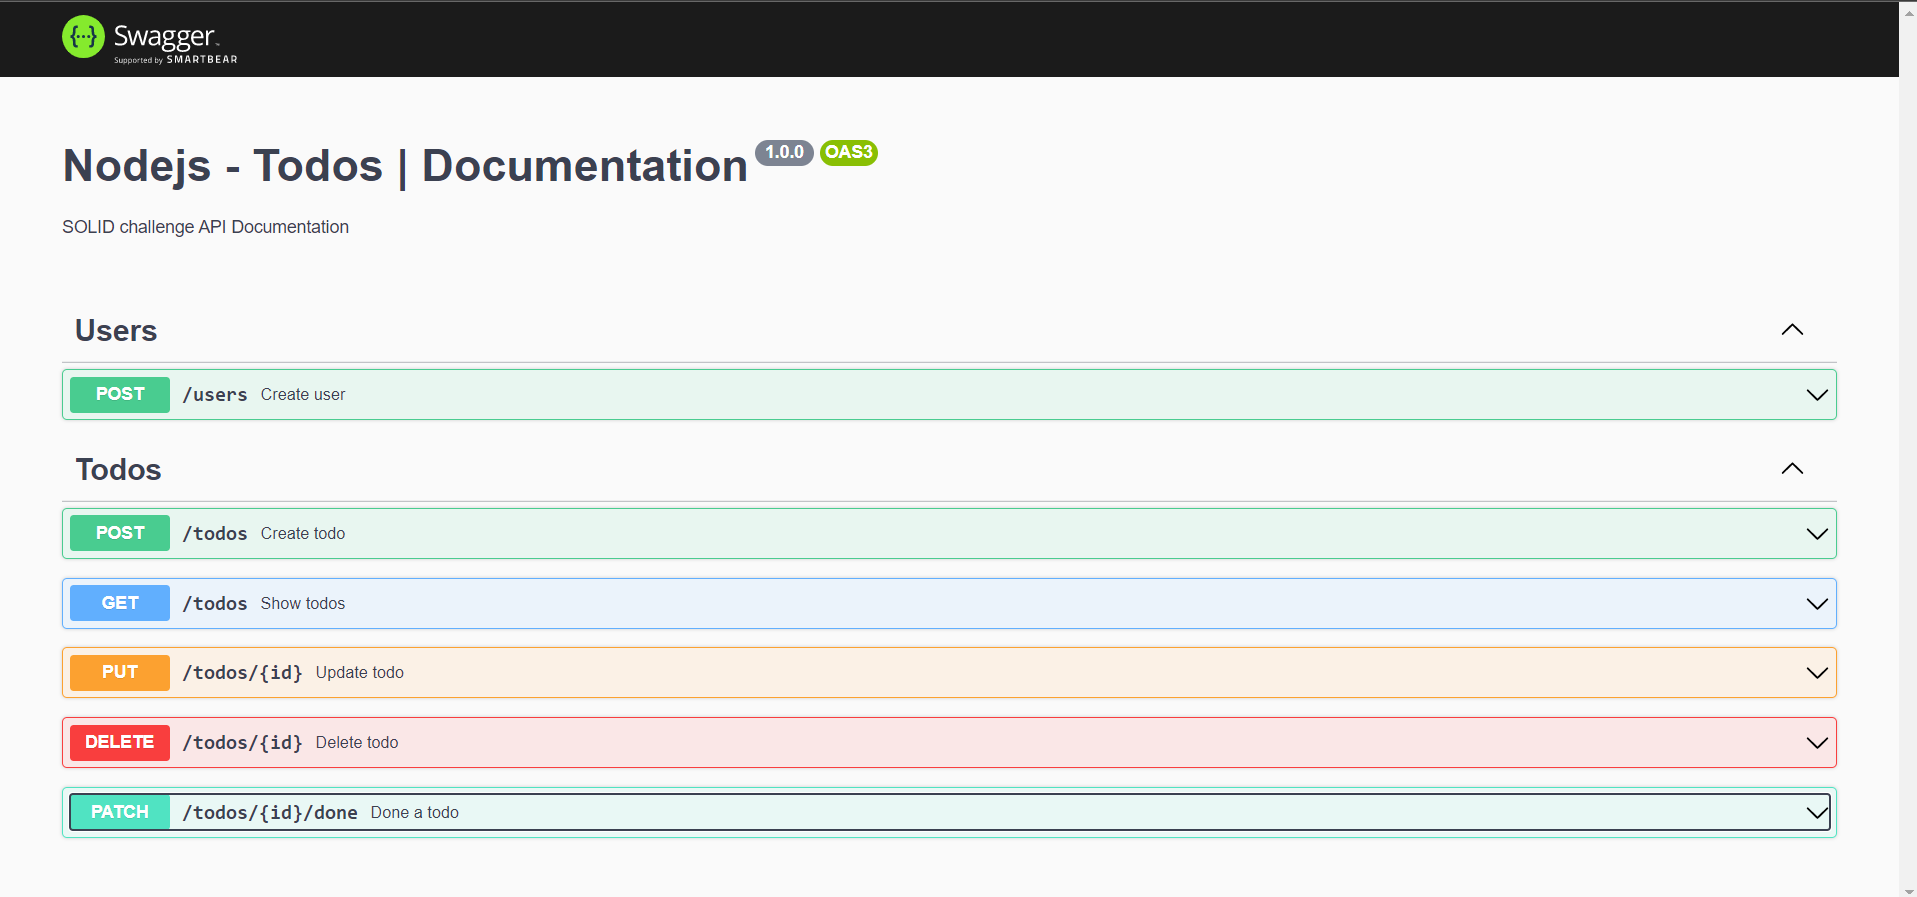
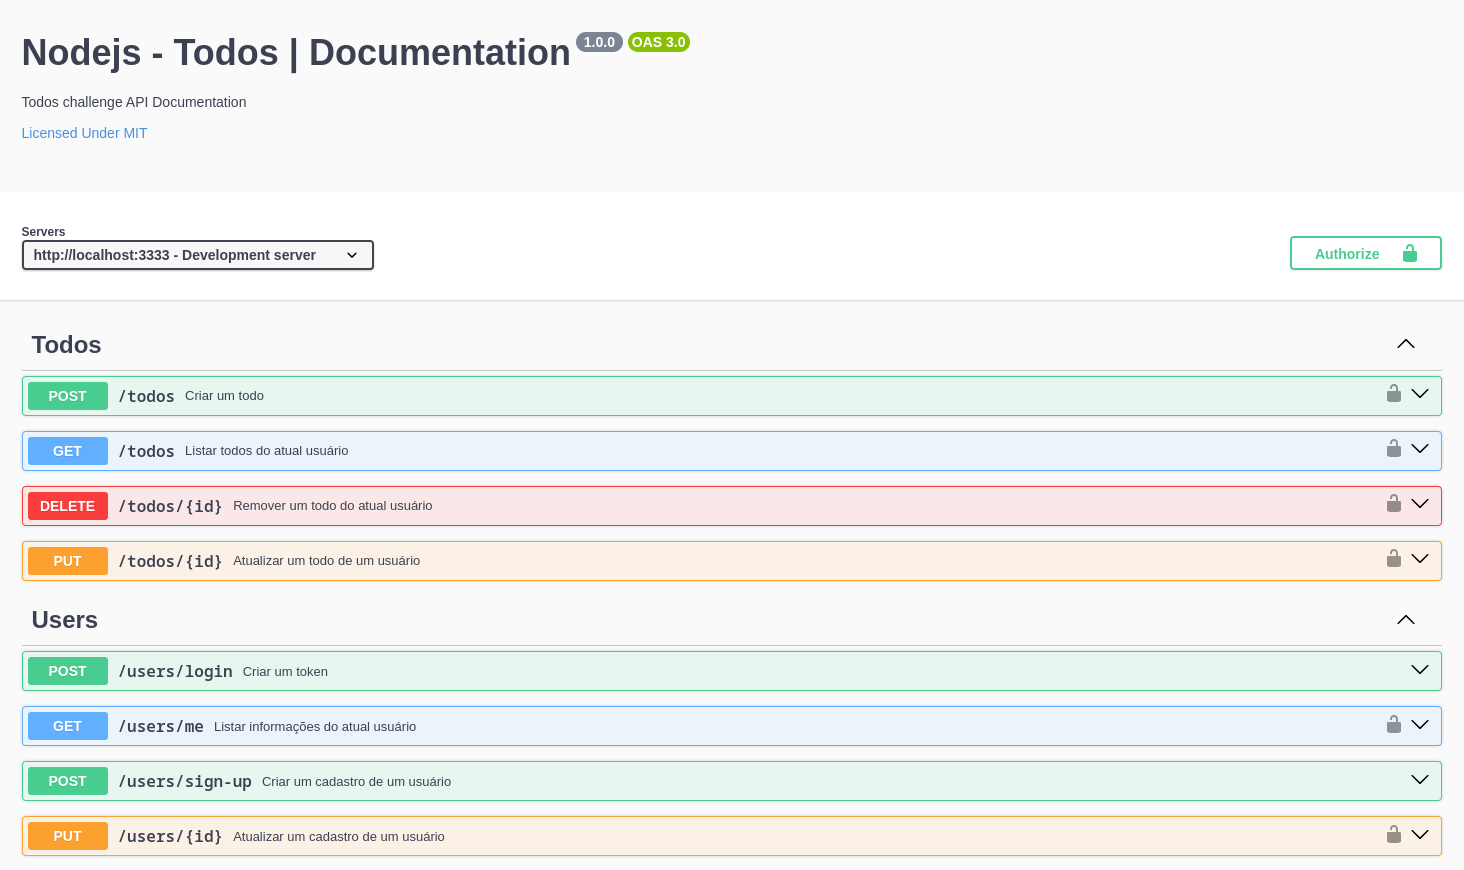
chore: Readme

diff --git a/README.md b/README.md
@@ -1,57 +1,94 @@
- <img src="https://img.shields.io/github/license/Ricnaga/nodejs-todo?label=License&style=for-the-badge"/>
+<div align="center">
+  <img src="./cover.jpg" alt="Capa do Projeto" />
+</div>
 
-<img src="cover.jpg" alt="Capa"/>
-
-# <div align="center"> Desafio NodeJS 1 - todo </div>
+# <div align="center"> # Desafio NodeJS 1 - todo </div>
 
 #### <div align="right">- Projeto Finalizado <div>
 
-### <div align="center"> Desafio de curso criado pela equipe Rocketseat abordando conceitos sobre: </div>
+<div align="center">
+  <img src="https://img.shields.io/github/license/Ricnaga/nodejs-todo?label=License&style=for-the-badge" alt="Licença" />
+</div>
 
-#### 1. CRUD com ExpressJS 
-#### 2. Tipos de dados de requisições
-#### 3. Tipos de dados de retornos
-#### 4. Swagger
+## Sobre
 
+Desafio de curso criado pela equipe Rocketseat, nessa versão foram alterado as tecnologias para estudo
 
-## <div align="center"> Sumário </div>
-<!--ts-->
-   - [Requisitos](#<div-align="center">Requisitos</div>)
-   - [Tecnologias utilizadas](#<div-align="center">Tecnologias-utilizadas</div>)
-<!--te-->
+### Tecnologias Utilizadas
 
-## <div align="center">Requisitos</div>
-Para executar a aplicação é necessário instalar algumas ferramentas tais como um editor de códigos para realizar compilação dos mesmos. Nesse projeto foi utilizado o [Visual Studio Code](https://code.visualstudio.com/), [NodeJS](https://nodejs.org/en/) para compilação do código, [Git Bash](https://gitforwindows.org/) para baixar o repositório e baixar todas as dependências necessárias. Para realizar testes foi utilizado o [Insomnia](https://insomnia.rest/download/)
+- [**ExpressJS**](https://expressjs.com/): Framework minimalista para aplicações Node.js, utilizado para criar e gerenciar rotas e middlewares com alta performance e flexibilidade.
+- [**TypeScript**](https://www.typescriptlang.org/): Superset do JavaScript com tipagem estática, adotado no projeto para garantir maior segurança em tempo de desenvolvimento, facilitar refatorações e melhorar a escalabilidade do código.
+
+- [**JSON Web Token (JWT)**](https://jwt.io/): Utilizado para a autenticação e autorização via tokens, permitindo sessões seguras e stateless na API.
+
+- [**InversifyJS**](https://inversify.io/): Framework de Inversão de Controle (IoC) e Injeção de Dependência (DI), promovendo maior desacoplamento entre os módulos da aplicação e facilitando testes e manutenção.
+
+- [**Swagger (OpenAPI)**](https://swagger.io/): Ferramenta para documentação automática da API REST, permitindo uma visualização clara dos endpoints, parâmetros e respostas disponíveis.
+
+- [**bcrypt.js**](https://github.com/dcodeIO/bcrypt.js#readme): Biblioteca utilizada para hash e comparação de senhas, garantindo a proteção de dados sensíveis no processo de autenticação.
+
+- [**Tsx**](https://tsx.is/): Runtime leve e moderno para execução de projetos TypeScript sem necessidade de transpilar manualmente, acelerando o desenvolvimento e simplificando o setup.
+
+- [**Jest**](https://jestjs.io/pt-BR/): Framework de testes unitários amplamente utilizado na comunidade JavaScript/TypeScript, aplicado aqui para garantir a confiabilidade das regras de negócio.
+
+- [**Supertest**](https://github.com/ladjs/supertest#readme): Ferramenta para testes de integração focada em APIs REST, utilizada para validar os endpoints em conjunto com o Jest.
+
+- [**Zod**](https://zod.dev/): Biblioteca de validação e parsing de schemas, usada para garantir que os dados recebidos nas requisições estejam no formato esperado, promovendo segurança e previsibilidade.
+
+## Requisitos
+
+Para rodar a aplicação, você precisará instalar algumas ferramentas de desenvolvimento. As seguintes tecnologias foram utilizadas neste projeto:
+
+- [Visual Studio Code](https://code.visualstudio.com/) ou outro editor de sua preferência
+- [Node.js](https://nodejs.org/en/) para gerenciar as dependências e executar o código
+- [Git](https://gitforwindows.org/) para baixar o repositório (se estiver no Windows)
+- [yarn](https://yarnpkg.com/) gerenciador de pacotes
+- [pnpm](https://pnpm.io/) gerenciador de pacotes
+
+### Como Rodar a Aplicação
+
+1. Clone o repositório:
+
+   ```bash
+    git clone https://github.com/Ricnaga/nodejs-todo
+   ```
+
+2. Acesse a pasta do projeto:
+
+   ```bash
+    cd nodejs-todo
+   ```
+
+3. Instale as dependências do projeto:
+
+- Usando yarn, npm ou pnpm:
+
+  ```bash
+  $ yarn
+  $ npm run install
+  $ pnpm install
+  ```
+
+4. Inicie a aplicação:
+
+   ```bash
+   $ yarn dev
+   $ npm run dev
+   $ pnpm dev
+   ```
+
+O navegador abrirá automaticamente com a aplicação rodando em http://localhost:3333/swagger.
+
+### Testes
 
 ```bash
-# Baixe o repositório.
-$ git clone https://github.com/Ricnaga/nodejs-todo.git
-
-# Acesse a pasta do projeto.
-$ cd nodejs-todo
-
-# Agora que baixou e acessou o repositório, vamos começar a instalação das dependências.
-$ yarn ( caso não utilize o yarn execute apenas npm -i)
-
-# Depois de instalado todas as dependências, abra a aplicação via vscode
-$ code .
-
-# Agore execute a aplicação.
-$ yarn dev (caso não utilize o yarn: npm run dev)
-
-# A aplicação iniciará na porta 3333 
-# Acesse no navegador o endereço http://localhost:3333/swagger
+$ yarn test
+$ npm run test
+$ pnpm test
 ```
 
-##  <div align="center">Tecnologias utilizadas</div>
-- [NodeJS](https://nodejs.org/en/)
-- [Express](https://expressjs.com/pt-br/starter/installing.html)
-- [Swagger](https://swagger.io/)
+Você pode verificar a cobertura dos testes no terminal ou acessando o arquivo index.html da pasta coverage que foi criada após executar o comando acima
 
+## Contribuições
 
-## <div align="center">Autor</div>
-<div align="center">Atividade desenvolvida no curso ignite pela equipe <a href="https://rocketseat.com.br/">Rocketseat</a>, realizados por minha pessoa.
-Gostou? tem alguma sugestão de melhoria? por favor, entre em contato e ja aproveita e me adiciona.<br>
-<a href="https://www.linkedin.com/in/ricardo-nagatomy"><img src="https://img.shields.io/badge/-RicardoNaga-blue?style=flat-square&logo=Linkedin&logoColor=white"></a>
-<a href="https://app.rocketseat.com.br/me/ricardo-nagatomy"><img src="https://img.shields.io/badge/-Rocketseat-000?style=flat-square&logo=&logoColor=white"></a>
-</div>
+Se você deseja contribuir para o projeto, fique à vontade para enviar pull requests ou abrir issues.
